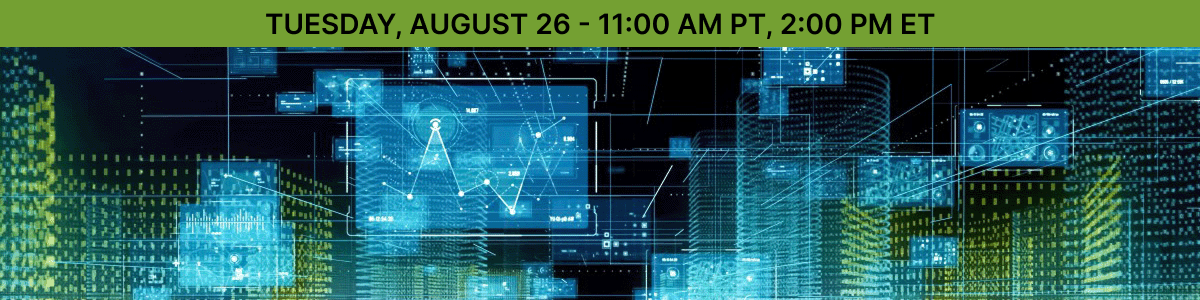
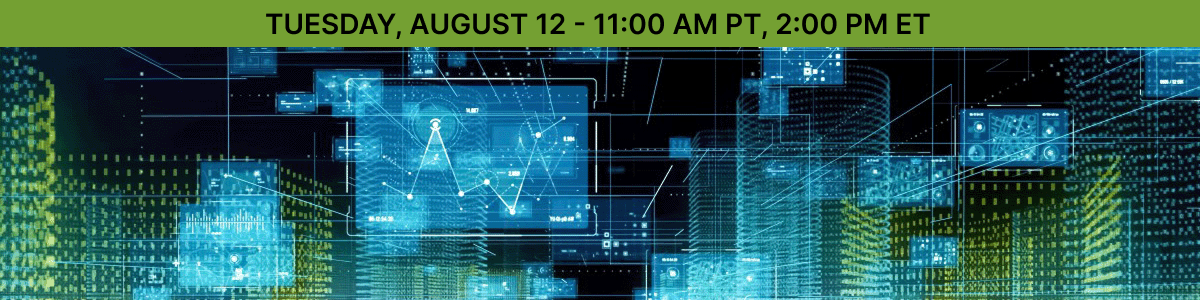
Fix ui

Changed region(s): [[0.4317, 0.03, 0.7708, 0.12]]

diff --git a/index.html b/index.html
@@ -18,11 +18,9 @@
   <div class="h-6"></div>
 
   <!-- Hero Banner -->
-<div class="relative max-w-5xl mx-auto">
-  <img src="assets/images/top.png" 
-       alt="Banner" 
-       class="w-full h-45 object-cover  shadow">
-</div>
+  <div class="relative max-w-5xl mx-auto">
+    <img src="assets/images/top.png" alt="Banner" class="w-full h-45 object-cover  shadow">
+  </div>
 
   <!-- Main Container -->
   <div class="max-w-5xl mx-auto bg-white shadow-md mt-6 p-8 rounded">
@@ -67,13 +65,13 @@
         </p>
 
         <p class="font-semibold mb-6">
-          Don't miss this live event on <span class="font-bold">Tuesday, August 26, 11 AM PT / 2 PM ET.</span>
+          Don't miss this live event on <span class="font-bold">Tuesday, August 12, 11 AM PT / 2 PM ET.</span>
         </p>
 
         <!-- Clickable REGISTER NOW text -->
         <p>
           <span class="text-red-600 font-bold cursor-pointer hover:underline" id="registerText">REGISTER NOW</span>
-          <span>to attend the webinar The Future of Automation: AI,
+          <span>to attend the webinar </span> <span class="font-bold"> The Future of Automation: AI,
             APIs, and Cloud Modernization.</span>
 
         </p>
